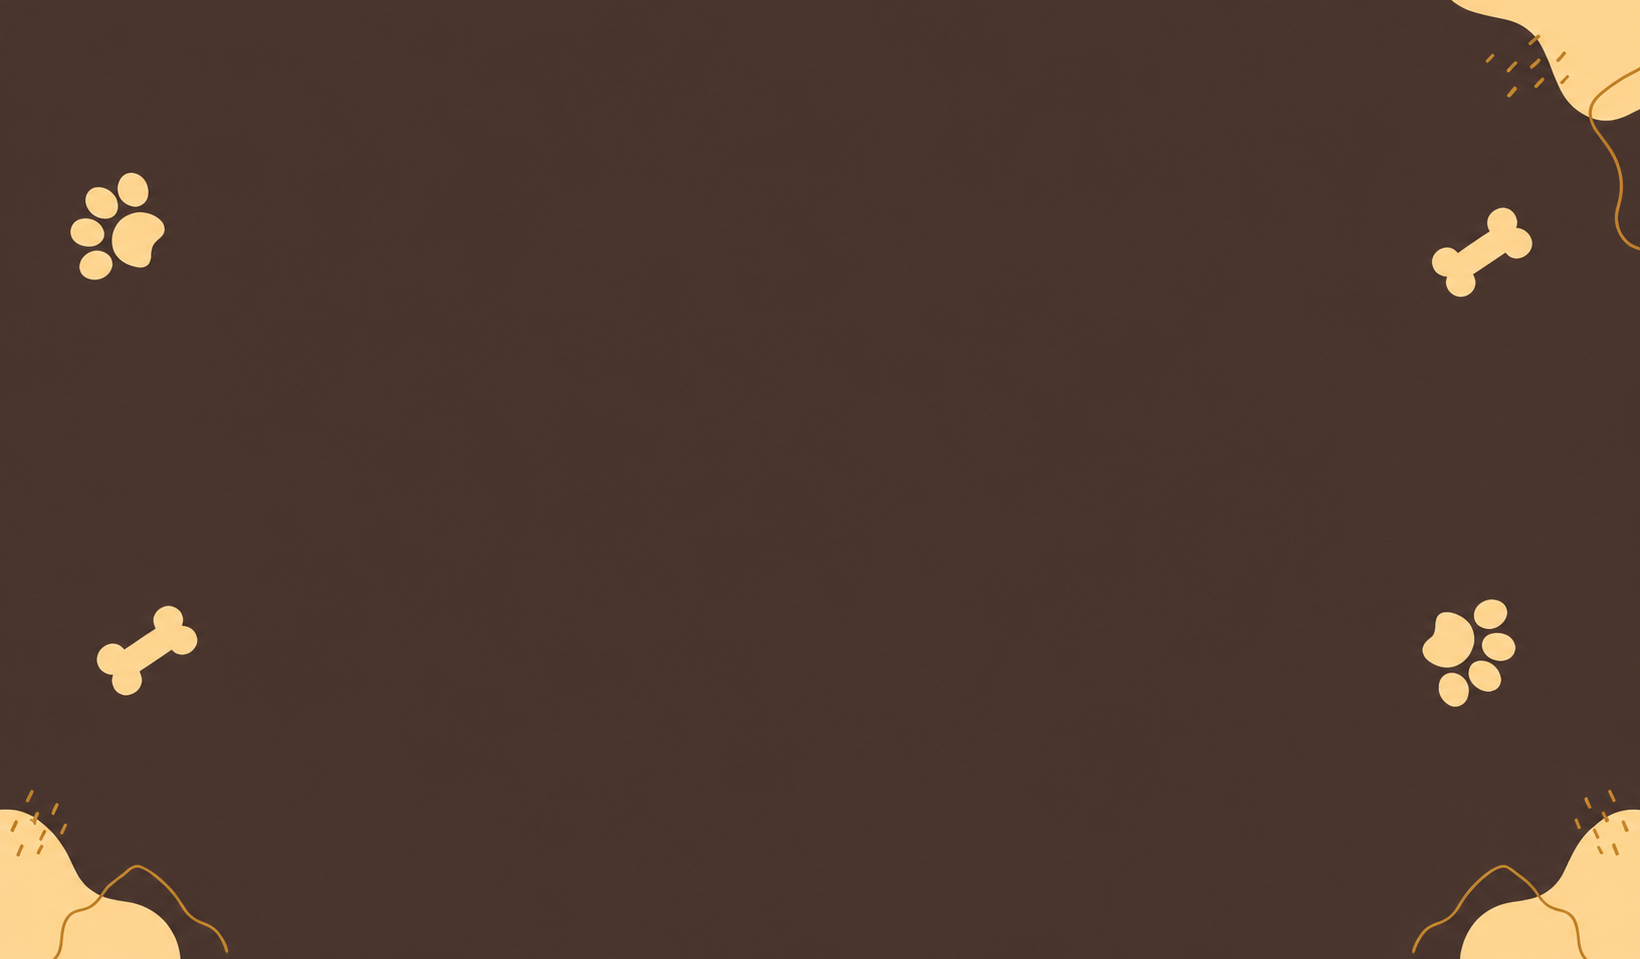
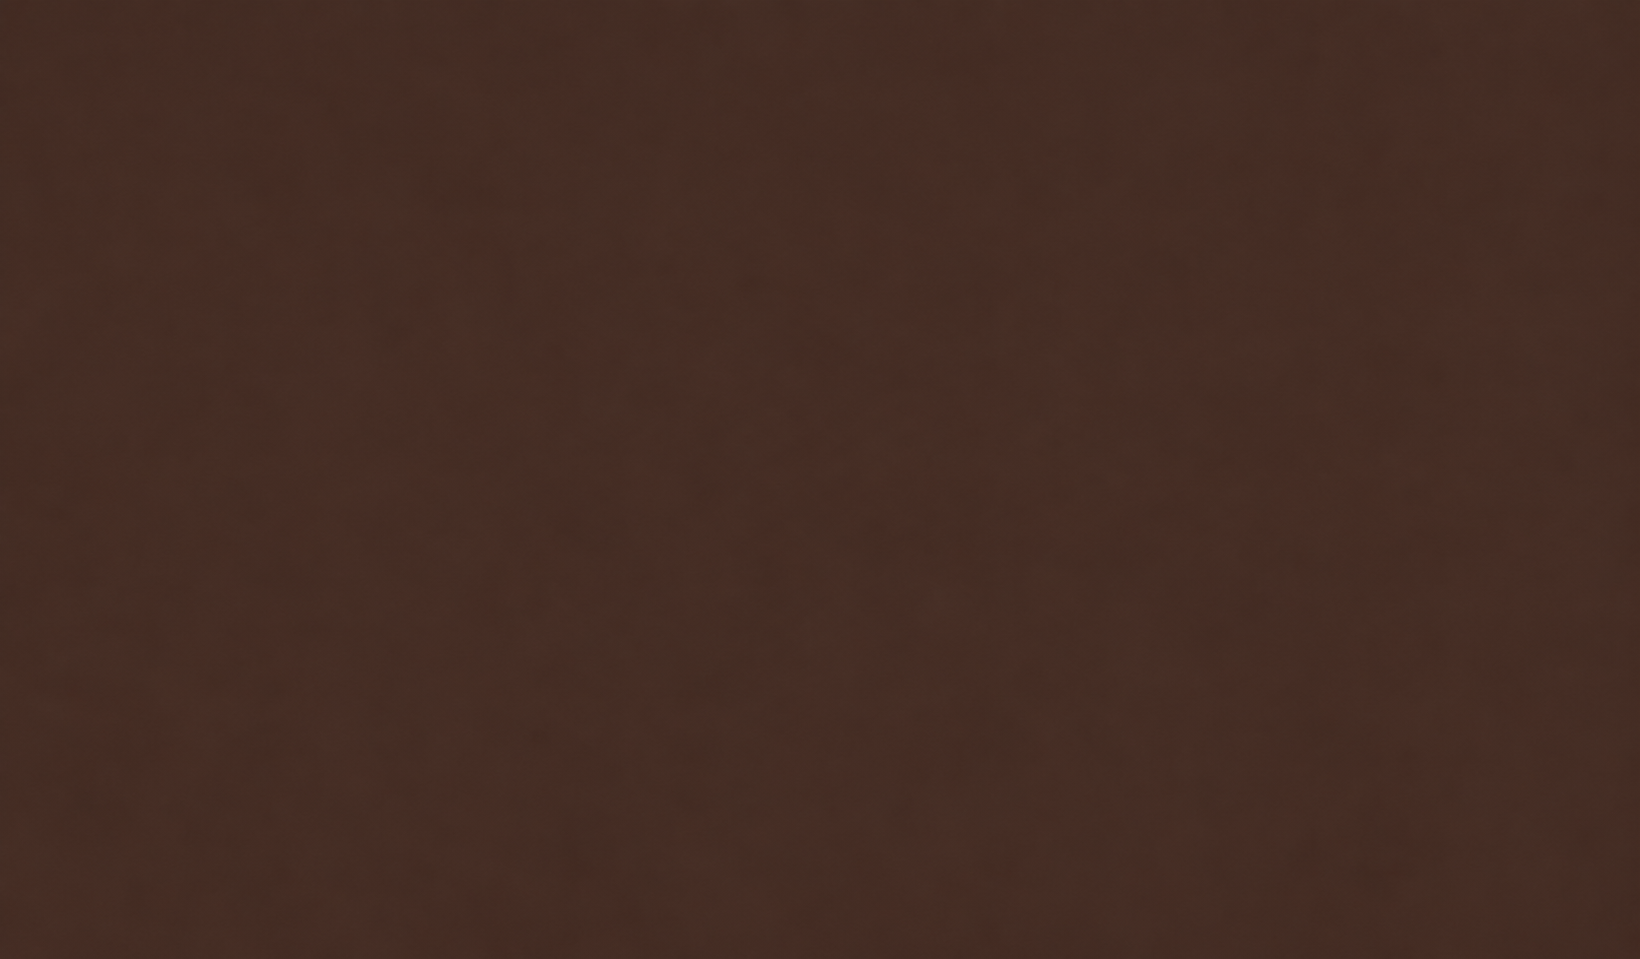
cards update

diff --git a/index.html b/index.html
@@ -10,9 +10,10 @@
 <link rel="preconnect" href="https://fonts.gstatic.com" crossorigin>
 <link href="https://fonts.googleapis.com/css2?family=Luckiest+Guy&display=swap" rel="stylesheet">
 <link href="https://fonts.googleapis.com/css2?family=Cinzel+Decorative:wght@400;700;900&display=swap" rel="stylesheet">
+<link href="https://fonts.googleapis.com/css2?family=Lilita+One&display=swap" rel="stylesheet">
 </head>
 <body class="bg-[url('./bgimage.png')] bg-cover bg-center h-screen">
-    <div class="flex flex-row">
+    
      <div class="group flex flex-row justify-between">
         <!--logo-->
         <div class="flex flex-row mt-4 ml-4 flex gap-2">
@@ -27,26 +28,16 @@
         <div class="active:scale-105 transition hover:text-white">Our Story</div>
         <div class="active:scale-105 transition hover:text-white">Contact</div>
     </div>
-    <!--Search bar-->
-    
-    <div class="relative w-64 ml-40 mt-4 ">
-        <div>
-          <input type="search" name="search" id="search"  placeholder="Search" class="bg-transparent border-b-2 border-[#ffd68e] w-full pr-8 mt-10 text-white placeholder:italic 
-          placeholder:text-white">
-        </div>
-        <div>
-            <i class="fa-solid fa-magnifying-glass text-[#ffd68e] absolute right-2 top-1/2 -translate-y-1  pointer-events-none text-xl"></i>
-        </div>
-    </div>
+  
 
     <!--login & signup button near search bar-->
     <div >
         <button class="bg-transparent border-2 border-[#ffd68e] px-4 py-2 rounded-3xl mt-10 ml-4 text-[#ffd68e] font-bold active:scale-105 transition hover:text-white hover:bg-yellow-600">Login</button>
         <button class="bg-[#ffd68e] px-4 py-2 rounded-3xl text-[#795225] font-bold mt-10 active:scale-105 transition hover:text-white hover:bg-yellow-600" style="font-family: 'Ubuntu';">SignUp</button>
     </div>
-</div>
+
     </div>
-    
+  
   <!--Content of the page-->
 <div class="flex flex-row justify-between">
 <div>
@@ -69,13 +60,271 @@
      companions happy, healthy, and loved.</p>
   </div>
  </div>
-  <div class="inline-block mr-20">
-  <img src="cat.png" alt="Cat image">
+  <div class="inline-block mr-72">
+  <img src="cat1.png" alt="Cat image" class="h-[600px]">
   </div>
 </div>
+<div>
 
-
-
+    <!--Search bar-->
+<div class="flex flex-row justify-between items-center">
+    <div>
+        <i class="fa-solid fa-magnifying-glass text-[#ffd68e] ml-6 mt-6 pointer-events-none text-3xl"></i>
+        <input type="search" id="search" name="search" placeholder="Search here.." class="bg-yellow-100 rounded-full py-2 pl-4 pr-10 m-2 mt-20">
+    </div>
+    <!--filter buttons-->
+    <div class="flex flex-row gap-4 mr-6 mt-20">
+        <button id="allbtn" class="bg-yellow-100 rounded-3xl px-4 py-2 font-semibold text-[#55423c] active:scale-105 transition hover:text-white hover:bg-yellow-600" style="font-family: Cinzel Decorative;">All</button>
+        <button id="pbtn" class="bg-yellow-100 rounded-3xl px-4 py-2 font-semibold text-[#55423c] active:scale-105 transition hover:text-white hover:bg-yellow-600" style="font-family: Cinzel Decorative;">Persian Cats</button>
+        <button id="bbtn" class="bg-yellow-100 rounded-3xl px-4 py-2 font-semibold text-[#55423c] active:scale-105 transition hover:text-white hover:bg-yellow-600" style="font-family: Cinzel Decorative;">Bengal Cats</button>
+        <button id="rbtn" class="bg-yellow-100 rounded-3xl px-4 py-2 font-semibold text-[#55423c] active:scale-105 transition hover:text-white hover:bg-yellow-600" style="font-family: Cinzel Decorative;">Ragdoll Cats</button>
+    </div>
 </div>
+
+<!--persian cards-->
+ <div id="persiansection" class="grid grid-cols-1 gap-20 md:grid md:grid-cols-3 m-20 md:m-10  md:gap-30 md:justify-between md:items-end">
+
+
+
+<!--Persian card 1-->
+    <div class="cat-card h-82 w-[350px] md-w-0 bg-[#ffd68e]  rounded-2xl cursor-pointer hover:shadow-xl transition-transform duration-300 hover:scale-105" data-breed="Persian">
+
+     <img src="persian5.jpg" alt="cat image" class="h-60 w-full object-cover  border-4 border-[#55423c] rounded-2xl "> 
+     <div class="flex flex-row justify-between">
+        <div class="flex flex-col">
+        <p  class="text-lg text-[#55423c] ml-2" style="font-family: Lilita One;">Breed: Persian</p>
+        <p class="text-lg text-[#55423c] ml-2" style="font-family: Lilita One;">Age: 1 year Old</p>
+        </div>
+        <div>
+            <i class="fa-solid fa-heart text-3xl  mr-6 text-red-700"></i>
+        </div>
+     </div>
+     <p class="text-2xl font-semibold text-[#55423c] ml-32" style="font-family: Cinzel Decorative;">Robin </p> 
+     </div>
+
+
+<!--Persian  card 2-->
+    <div class="cat-card h-82  w-[350px] md-w-0 bg-[#ffd68e] rounded-2xl cursor-pointer hover:shadow-xl transition-transform duration-300 hover:scale-105" data-breed="Persian">
+       <img src="persian2.jpg" alt="cat image" class="h-60 w-full  object-cover border-4 border-[#55423c] rounded-2xl">  
+       <div class="flex flex-row justify-between">
+       <div class="flex flex-col">    
+        <p  class="text-lg text-[#55423c] ml-2" style="font-family: Lilita One;">Breed: Persian</p>
+        <p class="text-lg text-[#55423c] ml-2" style="font-family: Lilita One;">Age: 2 years Old</p>
+            </div> 
+        <div>
+        <i class="fa-solid fa-heart text-3xl  mr-6 text-red-700"></i>
+        </div>
+        </div>
+       <p class="text-2xl font-semibold text-[#55423c] ml-32" style="font-family: Cinzel Decorative;">Caster</p> 
+       
+     </div>
+
+
+<!--Persian card 3-->
+    <div class="cat-card h-82  w-[350px] md-w-0 bg-[#ffd68e] rounded-2xl cursor-pointer hover:shadow-xl transition-transform duration-300 hover:scale-105" data-breed="Persian">
+       <img src="persian6.jpg" alt="cat image" class="h-60 w-full  object-cover border-4 border-[#55423c] rounded-2xl"> 
+         <div class="flex flex-row justify-between">
+        <div class="flex flex-col">
+            <div>
+        <p  class="text-lg text-[#55423c] ml-2" style="font-family: Lilita One;">Breed: Persian</p>
+        <p class="text-lg text-[#55423c] ml-2" style="font-family: Lilita One;">Age: 2 years Old</p>
+           </div> 
+       </div>
+     <div>
+        <i class="fa-solid fa-heart text-3xl mr-6 text-red-700"></i>  
+        </div>
+        </div>
+       <p class="text-2xl font-semibold text-[#55423c] ml-32" style="font-family: Cinzel Decorative;">Bruno</p> 
+    
+</div>
+</div>
+
+<!--Bengal cards-->
+ <div id="bengalsection" class="grid grid-cols-1 gap-20 md:grid md:grid-cols-3 m-20 md:m-10  md:gap-30 md:justify-between md:items-end">
+
+
+
+<!--Bengal card 1-->
+    <div class="cat-card h-82 w-[350px] md-w-0 bg-[#ffd68e]  rounded-2xl cursor-pointer hover:shadow-xl transition-transform duration-300 hover:scale-105" data-breed="bengal">
+
+     <img src="bengal6.jpg" alt="cat image" class="h-60 w-full object-cover  border-4 border-[#55423c] rounded-2xl "> 
+     <div class="flex flex-row justify-between">
+        <div class="flex flex-col">
+        <p  class="text-lg text-[#55423c] ml-2" style="font-family: Lilita One;">Breed: Bengal</p>
+        <p class="text-lg text-[#55423c] ml-2" style="font-family: Lilita One;">Age: 1 year Old</p>
+        </div>
+        <div>
+            <i class="fa-solid fa-heart text-3xl  mr-6 text-red-700"></i>
+        </div>
+     </div>
+     <p class="text-2xl font-semibold text-[#55423c] ml-32" style="font-family: Cinzel Decorative;">Jona </p> 
+     </div>
+
+
+<!--Bengal card 2-->
+    <div class="cat-card h-82  w-[350px] md-w-0 bg-[#ffd68e] rounded-2xl cursor-pointer hover:shadow-xl transition-transform duration-300 hover:scale-105" data-breed="bengal">
+       <img src="bengal4.webp" alt="cat image" class="h-60 w-full  object-cover border-4 border-[#55423c] rounded-2xl">  
+       <div class="flex flex-row justify-between">
+       <div class="flex flex-col">    
+        <p  class="text-lg text-[#55423c] ml-2" style="font-family: Lilita One;">Breed: Bengal</p>
+        <p class="text-lg text-[#55423c] ml-2" style="font-family: Lilita One;">Age: 2 years Old</p>
+            </div> 
+        <div>
+        <i class="fa-solid fa-heart text-3xl  mr-6 text-red-700"></i>
+        </div>
+        </div>
+       <p class="text-2xl font-semibold text-[#55423c] ml-32" style="font-family: Cinzel Decorative;">Deloyd</p> 
+       
+     </div>
+
+
+<!--Bengal card 3-->
+    <div class="cat-card h-82  w-[350px] md-w-0 bg-[#ffd68e] rounded-2xl cursor-pointer hover:shadow-xl transition-transform duration-300 hover:scale-105" data-breed="bengal">
+       <img src="bengal5.avif" alt="cat image" class="h-60 w-full  object-cover border-4 border-[#55423c] rounded-2xl"> 
+         <div class="flex flex-row justify-between">
+        <div class="flex flex-col">
+            <div>
+        <p  class="text-lg text-[#55423c] ml-2" style="font-family: Lilita One;">Breed: Bengal</p>
+        <p class="text-lg text-[#55423c] ml-2" style="font-family: Lilita One;">Age: 2 years Old</p>
+           </div> 
+       </div>
+     <div>
+        <i class="fa-solid fa-heart text-3xl mr-6 text-red-700"></i>  
+        </div>
+        </div>
+       <p class="text-2xl font-semibold text-[#55423c] ml-32" style="font-family: Cinzel Decorative;">Rishi</p> 
+    
+</div>
+</div>
+
+
+<!--Ragdoll cards-->
+ <div id="ragdollsection" class="grid grid-cols-1 gap-20 md:grid md:grid-cols-3 m-20 md:m-10  md:gap-30 md:justify-between md:items-end">
+
+
+
+<!--Ragdoll card 1-->
+    <div class="cat-card h-82 w-[350px] md-w-0 bg-[#ffd68e]  rounded-2xl cursor-pointer hover:shadow-xl transition-transform duration-300 hover:scale-105" data-breed="ragdoll">
+
+     <img src="Ragdoll.jpg" alt="cat image" class="h-60 w-full object-cover  border-4 border-[#55423c] rounded-2xl "> 
+     <div class="flex flex-row justify-between">
+        <div class="flex flex-col">
+        <p  class="text-lg text-[#55423c] ml-2" style="font-family: Lilita One;">Breed: Ragdoll</p>
+        <p class="text-lg text-[#55423c] ml-2" style="font-family: Lilita One;">Age: 1 year Old</p>
+        </div>
+        <div>
+            <i class="fa-solid fa-heart text-3xl  mr-6 text-red-700"></i>
+        </div>
+     </div>
+     <p class="text-2xl font-semibold text-[#55423c] ml-32" style="font-family: Cinzel Decorative;">Raddy </p> 
+     </div>
+
+
+<!-- Ragdoll card 2-->
+    <div class="cat-card h-82  w-[350px] md-w-0 bg-[#ffd68e] rounded-2xl cursor-pointer hover:shadow-xl transition-transform duration-300 hover:scale-105" data-breed="ragdoll">
+       <img src="Ragdoll2.webp" alt="cat image" class="h-60 w-full  object-cover border-4 border-[#55423c] rounded-2xl">  
+       <div class="flex flex-row justify-between">
+       <div class="flex flex-col">    
+        <p  class="text-lg text-[#55423c] ml-2" style="font-family: Lilita One;">Breed: Ragdoll</p>
+        <p class="text-lg text-[#55423c] ml-2" style="font-family: Lilita One;">Age: 2 years Old</p>
+            </div> 
+        <div>
+        <i class="fa-solid fa-heart text-3xl  mr-6 text-red-700"></i>
+        </div>
+        </div>
+       <p class="text-2xl font-semibold text-[#55423c] ml-32" style="font-family: Cinzel Decorative;">Zulan</p> 
+       
+     </div>
+
+
+<!--Ragdoll card 3-->
+    <div class="cat-card h-82  w-[350px] md-w-0 bg-[#ffd68e] rounded-2xl cursor-pointer hover:shadow-xl transition-transform duration-300 hover:scale-105" data-breed="ragdoll">
+       <img src="ragdoll4.avif" alt="cat image" class="h-60 w-full  object-cover border-4 border-[#55423c] rounded-2xl"> 
+         <div class="flex flex-row justify-between">
+        <div class="flex flex-col">
+            <div>
+        <p  class="text-lg text-[#55423c] ml-2" style="font-family: Lilita One;">Breed: Ragdoll</p>
+        <p class="text-lg text-[#55423c] ml-2" style="font-family: Lilita One;">Age: 2 years Old</p>
+           </div> 
+       </div>
+     <div>
+        <i class="fa-solid fa-heart text-3xl mr-6 text-red-700"></i>  
+        </div>
+        </div>
+       <p class="text-2xl font-semibold text-[#55423c] ml-32" style="font-family: Cinzel Decorative;">Zyoni</p> 
+    
+</div>
+</div>
+<hr>
+<hr>
+
+<script>
+       const persian = document.getElementById("persiansection");
+       const bengal = document.getElementById("bengalsection");
+       const ragdoll = document.getElementById("ragdollsection");
+       const allbutton = document.getElementById("allbtn");
+       const pbutton = document.getElementById("pbtn");
+       const bbutton = document.getElementById("bbtn");
+       const rbutton = document.getElementById("rbtn");
+
+       allbutton.addEventListener("click", () => {
+            persian.style.display = "grid";
+            bengal.style.display = "grid";
+            ragdoll.style.display = "grid";
+
+       })
+         pbutton.addEventListener("click", () => {
+            persian.style.display = "grid";
+            bengal.style.display = "none";
+            ragdoll.style.display = "none";
+
+       })
+        bbutton.addEventListener("click", () => {
+            persian.style.display = "none";
+            bengal.style.display = "grid";
+            ragdoll.style.display = "none";
+
+       })
+        rbutton.addEventListener("click", () => {
+            persian.style.display = "none";
+            bengal.style.display = "none";
+            ragdoll.style.display = "grid";
+
+       })
+</script>
+<script>
+       const searchbox = document.getElementById("search");
+
+       searchbox.addEventListener("input", () => {
+           
+        const inputvalue = searchbox.value.toLowerCase().trim();
+
+        //If the search box is empty show all in the display else remove all and give what user expect to show
+        if(inputvalue ===""){
+          persian.style.display = "grid";
+          bengal.style.display = "grid";
+          ragdoll.style.display = "grid";
+          return;
+        }
+         {
+          persian.style.display = "none";
+          bengal.style.display = "none";
+          ragdoll.style.display = "none";
+          
+         }
+        if(inputvalue.includes("persian")){
+            persian.style.display = "grid";     
+        }
+        if(inputvalue.includes("bengal")){
+            bengal.style.display = "grid";     
+        }
+        if(inputvalue.includes("ragdoll")){
+            ragdoll.style.display = "grid";     
+        }
+
+       });
+
+    
+</script>
 </body>
 </html>